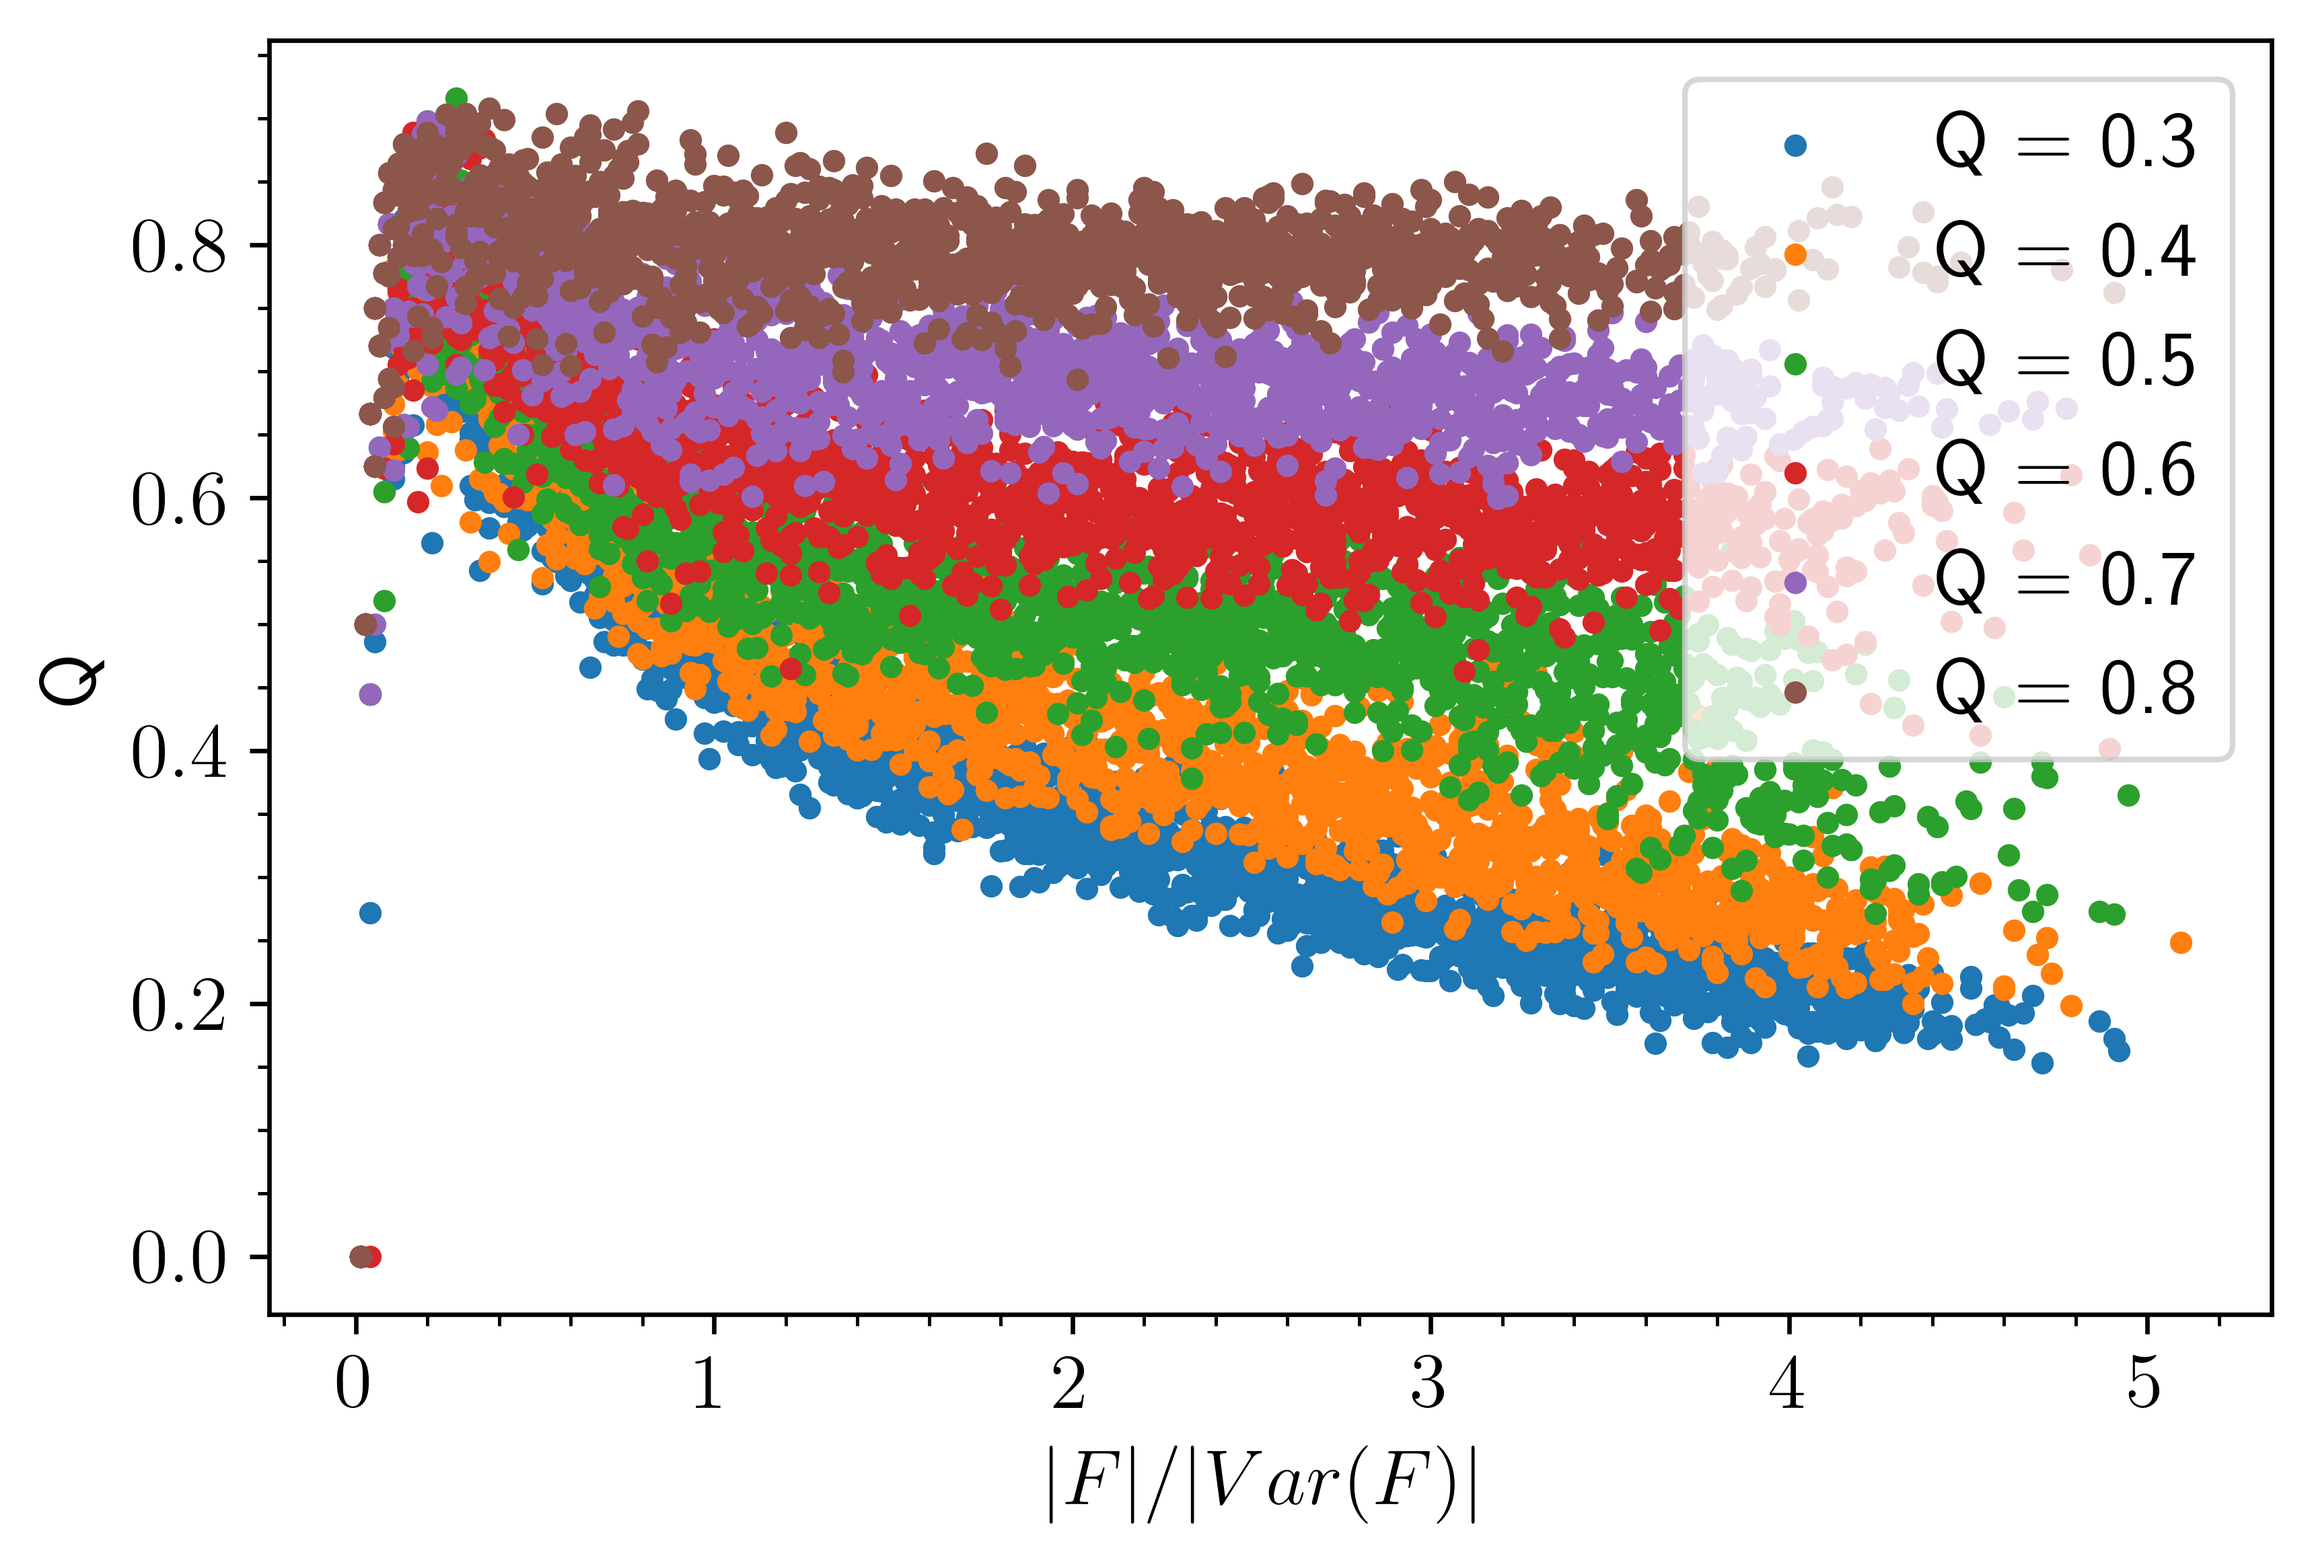
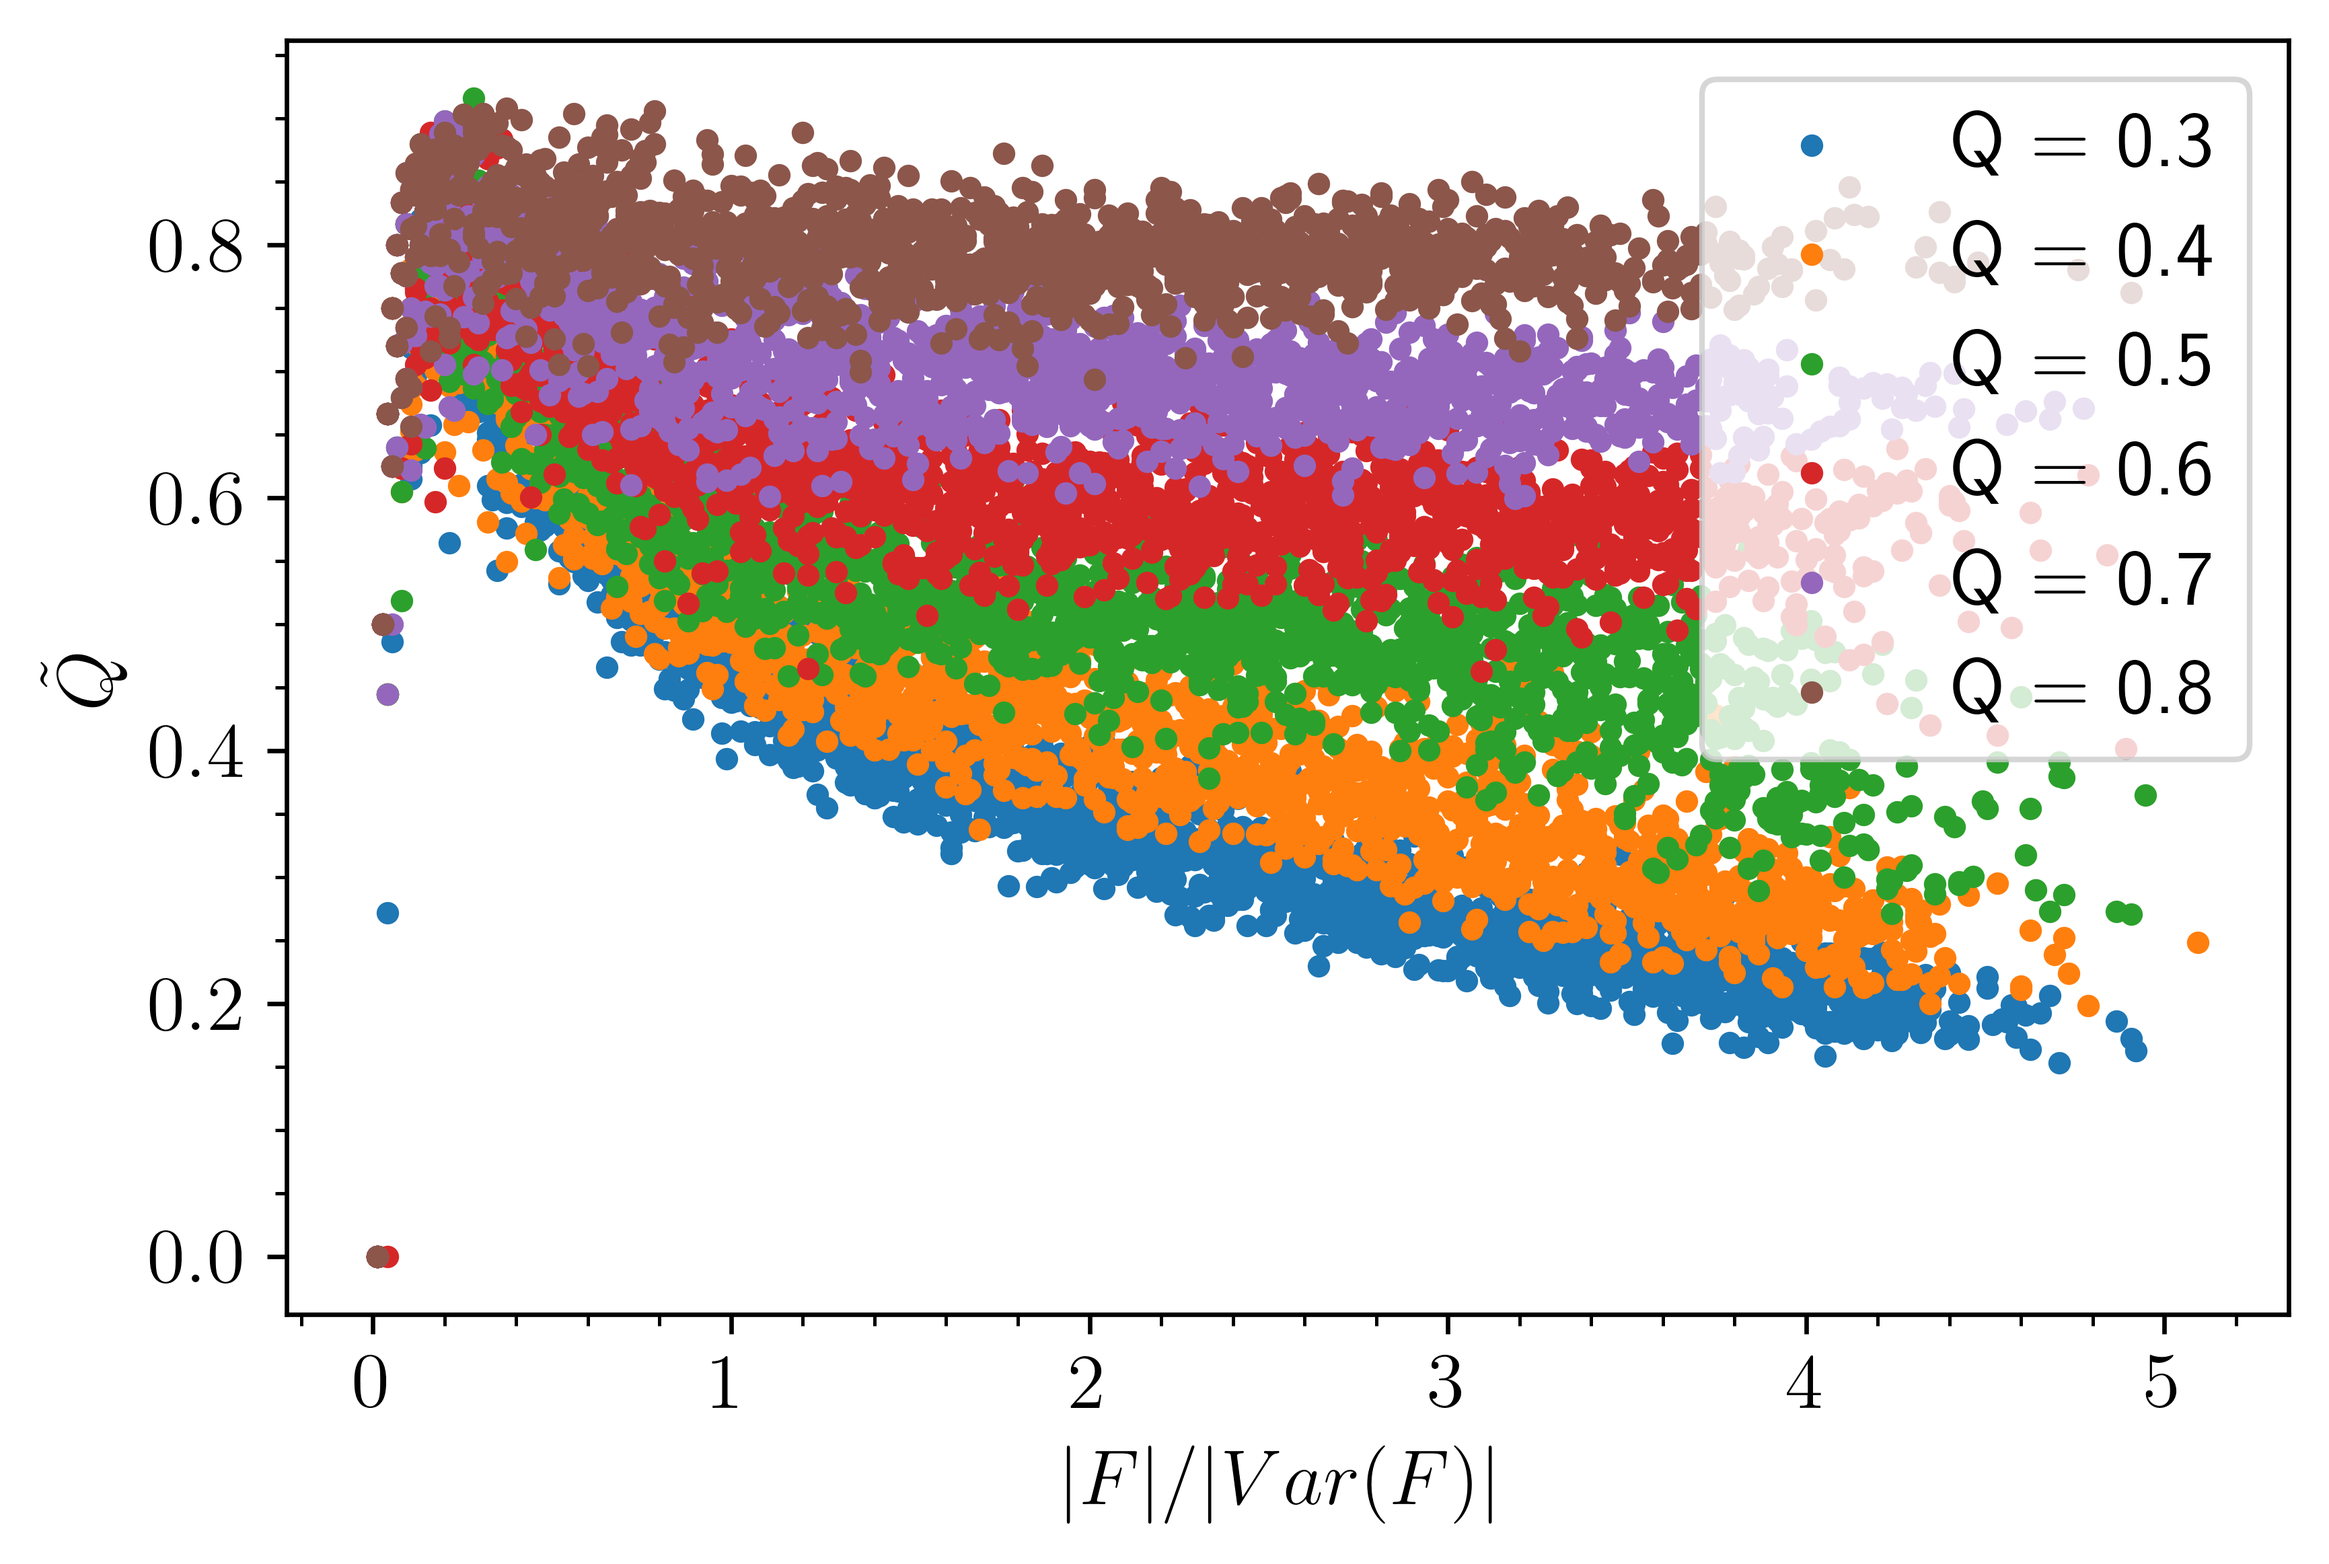
dist mod

diff --git a/RQ1_graphs/dist.py b/RQ1_graphs/dist.py
@@ -62,7 +62,7 @@ for dataset in ["c5", "c8", "c15"]:
     mpl.figure(q_f_fig)
     # mpl.grid()
     mpl.xlabel("$|F| / |Var(F)|$")
-    mpl.ylabel("Q")
+    mpl.ylabel("$\\tilde{Q}$")
     mpl.minorticks_on()
     mpl.legend()
 # mpl.xlim(right = 7)
@@ -72,7 +72,7 @@ for dataset in ["c5", "c8", "c15"]:
     mpl.figure(q_rf_fig)
     # mpl.grid()
     mpl.xlabel("$log_2(|R_F|) / |Var(F)|$")
-    mpl.ylabel("Q")
+    mpl.ylabel("$\\tilde{Q}$")
     mpl.minorticks_on()
     mpl.legend()
 # mpl.xlim(right = 7)
